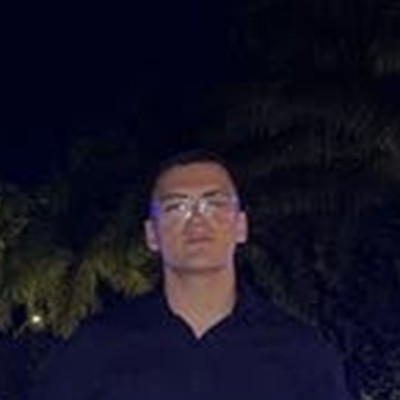
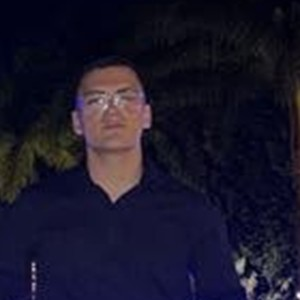
fix: vertical card layout for team section to give full width to titles and apply close-up face crop on AI engineer

diff --git a/index.html b/index.html
@@ -696,21 +696,22 @@
         <!-- Ingeniero 1: Inteligencia Artificial & Automatización (Foto 1) -->
         <div class="glass-panel p-8 rounded-3xl border border-[#6D8196]/20 hover:border-[#00F5D4]/40 transition-all duration-300 flex flex-col justify-between group">
           <div class="space-y-6">
-            <div class="flex items-center gap-4">
-              <div class="w-24 h-24 sm:w-28 sm:h-28 rounded-2xl overflow-hidden border-2 border-[#00F5D4]/40 shadow-[0_0_20px_rgba(0,245,212,0.25)] flex-shrink-0 bg-[#070B0E] relative group-hover:border-[#00F5D4] group-hover:scale-105 transition-all">
-                <img src="/assets/img/team/team-ai.jpg" alt="Ingeniero de Sistemas — Inteligencia Artificial & Automatización" class="w-full h-full object-cover object-center">
-                <div class="absolute bottom-1.5 right-1.5 bg-[#01796F] text-[#00F5D4] p-1 rounded-lg border border-[#00F5D4]/50 shadow-md">
+            <div class="flex items-start justify-between">
+              <div class="relative w-24 h-24 rounded-2xl overflow-hidden border-2 border-[#00F5D4]/40 shadow-[0_0_20px_rgba(0,245,212,0.25)] flex-shrink-0 bg-[#070B0E] group-hover:border-[#00F5D4] group-hover:scale-105 transition-all">
+                <img src="/assets/img/team/team-ai.jpg" alt="Ingeniero de Sistemas — Inteligencia Artificial & Automatización" class="w-full h-full object-cover">
+                <div class="absolute bottom-1 right-1 bg-[#01796F] text-[#00F5D4] p-1 rounded-md border border-[#00F5D4]/50 shadow-md">
                   <i data-lucide="cpu" class="w-3.5 h-3.5"></i>
                 </div>
               </div>
-              <div>
-                <span class="font-mono text-xs text-[#00F5D4] tracking-wider uppercase block mb-1">Ingeniero de Sistemas // Co-Founder</span>
-                <h3 class="font-heading font-extrabold text-2xl text-white">Inteligencia Artificial & Automatización</h3>
-              </div>
+              <span class="font-mono text-[10px] text-[#00F5D4] bg-[#01796F]/20 border border-[#01796F]/50 px-2.5 py-1 rounded-full uppercase tracking-wider">
+                Co-Founder
+              </span>
             </div>
 
             <div>
-              <p class="text-slate-300 text-sm font-light leading-relaxed">
+              <span class="font-mono text-xs text-[#00F5D4] tracking-wider uppercase block mb-1">Ingeniero de Sistemas</span>
+              <h3 class="font-heading font-extrabold text-2xl text-white leading-snug">Inteligencia Artificial & Automatización</h3>
+              <p class="text-slate-300 text-sm font-light leading-relaxed mt-3">
                 Especialista en integración de modelos de lenguaje (LLMs), agentes conversacionales para WhatsApp Business, visión computacional con OCR bancario y automatización de procesos repetitivos para negocios.
               </p>
             </div>
@@ -732,21 +733,22 @@
         <!-- Ingeniero 2: Arquitectura Cloud & Backend (Foto 2) -->
         <div class="glass-panel p-8 rounded-3xl border border-[#6D8196]/20 hover:border-[#00F5D4]/40 transition-all duration-300 flex flex-col justify-between group">
           <div class="space-y-6">
-            <div class="flex items-center gap-4">
-              <div class="w-24 h-24 sm:w-28 sm:h-28 rounded-2xl overflow-hidden border-2 border-[#00F5D4]/40 shadow-[0_0_20px_rgba(0,245,212,0.25)] flex-shrink-0 bg-[#070B0E] relative group-hover:border-[#00F5D4] group-hover:scale-105 transition-all">
-                <img src="/assets/img/team/team-cloud.jpg" alt="Ingeniero de Sistemas — Arquitectura Cloud & Backend" class="w-full h-full object-cover object-center">
-                <div class="absolute bottom-1.5 right-1.5 bg-[#01796F] text-[#00F5D4] p-1 rounded-lg border border-[#00F5D4]/50 shadow-md">
+            <div class="flex items-start justify-between">
+              <div class="relative w-24 h-24 rounded-2xl overflow-hidden border-2 border-[#00F5D4]/40 shadow-[0_0_20px_rgba(0,245,212,0.25)] flex-shrink-0 bg-[#070B0E] group-hover:border-[#00F5D4] group-hover:scale-105 transition-all">
+                <img src="/assets/img/team/team-cloud.jpg" alt="Ingeniero de Sistemas — Arquitectura Cloud & Backend" class="w-full h-full object-cover">
+                <div class="absolute bottom-1 right-1 bg-[#01796F] text-[#00F5D4] p-1 rounded-md border border-[#00F5D4]/50 shadow-md">
                   <i data-lucide="server" class="w-3.5 h-3.5"></i>
                 </div>
               </div>
-              <div>
-                <span class="font-mono text-xs text-[#00F5D4] tracking-wider uppercase block mb-1">Ingeniero de Sistemas // Co-Founder</span>
-                <h3 class="font-heading font-extrabold text-2xl text-white">Arquitectura Cloud & Backend</h3>
-              </div>
+              <span class="font-mono text-[10px] text-[#00F5D4] bg-[#01796F]/20 border border-[#01796F]/50 px-2.5 py-1 rounded-full uppercase tracking-wider">
+                Co-Founder
+              </span>
             </div>
 
             <div>
-              <p class="text-slate-300 text-sm font-light leading-relaxed">
+              <span class="font-mono text-xs text-[#00F5D4] tracking-wider uppercase block mb-1">Ingeniero de Sistemas</span>
+              <h3 class="font-heading font-extrabold text-2xl text-white leading-snug">Arquitectura Cloud & Backend</h3>
+              <p class="text-slate-300 text-sm font-light leading-relaxed mt-3">
                 Especialista en lógica de negocio robusta, APIs de latencia ultrabaja, bases de datos PostgreSQL en Supabase y microservicios escalables. Garantiza que tu sistema soporte miles de usuarios simultáneos sin caídas.
               </p>
             </div>
@@ -768,42 +770,22 @@
         <!-- Ingeniero 3: Frontend, UI/UX & Posicionamiento SEO (Foto 3) -->
         <div class="glass-panel p-8 rounded-3xl border border-[#6D8196]/20 hover:border-[#00F5D4]/40 transition-all duration-300 flex flex-col justify-between group">
           <div class="space-y-6">
-            <div class="flex items-center gap-4">
-              <div class="w-24 h-24 sm:w-28 sm:h-28 rounded-2xl overflow-hidden border-2 border-[#00F5D4]/40 shadow-[0_0_20px_rgba(0,245,212,0.25)] flex-shrink-0 bg-[#070B0E] relative group-hover:border-[#00F5D4] group-hover:scale-105 transition-all">
+            <div class="flex items-start justify-between">
+              <div class="relative w-24 h-24 rounded-2xl overflow-hidden border-2 border-[#00F5D4]/40 shadow-[0_0_20px_rgba(0,245,212,0.25)] flex-shrink-0 bg-[#070B0E] group-hover:border-[#00F5D4] group-hover:scale-105 transition-all">
                 <img src="/assets/img/team/team-frontend.jpg" alt="Ingeniero de Sistemas — Frontend, UI/UX & Posicionamiento SEO" class="w-full h-full object-cover object-[center_16%]">
-                <div class="absolute bottom-1.5 right-1.5 bg-[#01796F] text-[#00F5D4] p-1 rounded-lg border border-[#00F5D4]/50 shadow-md">
+                <div class="absolute bottom-1 right-1 bg-[#01796F] text-[#00F5D4] p-1 rounded-md border border-[#00F5D4]/50 shadow-md">
                   <i data-lucide="layers" class="w-3.5 h-3.5"></i>
                 </div>
               </div>
-              <div>
-                <span class="font-mono text-xs text-[#00F5D4] tracking-wider uppercase block mb-1">Ingeniero de Sistemas // Co-Founder</span>
-                <h3 class="font-heading font-extrabold text-2xl text-white">Frontend, UI/UX & Posicionamiento SEO</h3>
-              </div>
+              <span class="font-mono text-[10px] text-[#00F5D4] bg-[#01796F]/20 border border-[#01796F]/50 px-2.5 py-1 rounded-full uppercase tracking-wider">
+                Co-Founder
+              </span>
             </div>
 
             <div>
-              <p class="text-slate-300 text-sm font-light leading-relaxed">
-                Especialista en desarrollo web de máxima velocidad con Next.js, gráficos interactivos con Three.js, experiencia de usuario y arquitectura SEO técnica para posicionar tu marca en los primeros lugares de Google.
-              </p>
-            </div>
-
-            <div class="flex flex-wrap gap-2 pt-2">
-              <span class="font-mono text-[10px] bg-[#070B0E] border border-white/10 px-2.5 py-1 rounded-md text-[#B0C4DE]">Next.js & React</span>
-              <span class="font-mono text-[10px] bg-[#070B0E] border border-white/10 px-2.5 py-1 rounded-md text-[#B0C4DE]">SEO Técnico Local</span>
-              <span class="font-mono text-[10px] bg-[#070B0E] border border-white/10 px-2.5 py-1 rounded-md text-[#B0C4DE]">UI/UX Sensorial</span>
-              <span class="font-mono text-[10px] bg-[#070B0E] border border-white/10 px-2.5 py-1 rounded-md text-[#B0C4DE]">Three.js Interactivo</span>
-            </div>
-          </div>
-
-          <div class="pt-6 border-t border-white/5 mt-8 flex items-center justify-between font-mono text-xs text-[#6D8196]">
-            <span>DevMaK3 Experience</span>
-            <span class="text-[#00F5D4]">Ingeniería Activa</span>
-          </div>
-        </div>
-      </div>
-
-            <div>
-              <p class="text-slate-300 text-sm font-light leading-relaxed">
+              <span class="font-mono text-xs text-[#00F5D4] tracking-wider uppercase block mb-1">Ingeniero de Sistemas</span>
+              <h3 class="font-heading font-extrabold text-2xl text-white leading-snug">Frontend, UI/UX & Posicionamiento SEO</h3>
+              <p class="text-slate-300 text-sm font-light leading-relaxed mt-3">
                 Especialista en desarrollo web de máxima velocidad con Next.js, gráficos interactivos con Three.js, experiencia de usuario y arquitectura SEO técnica para posicionar tu marca en los primeros lugares de Google.
               </p>
             </div>
